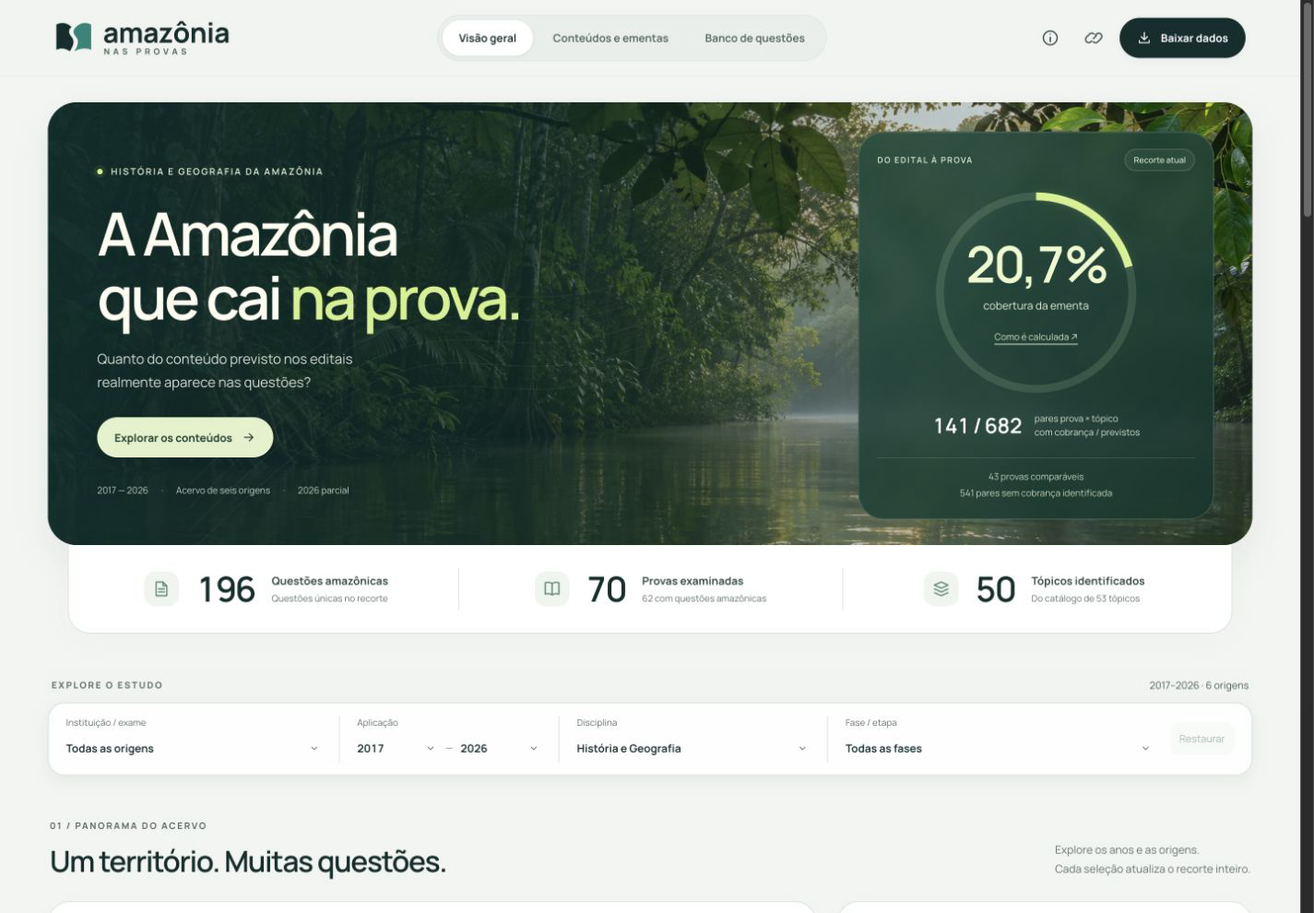
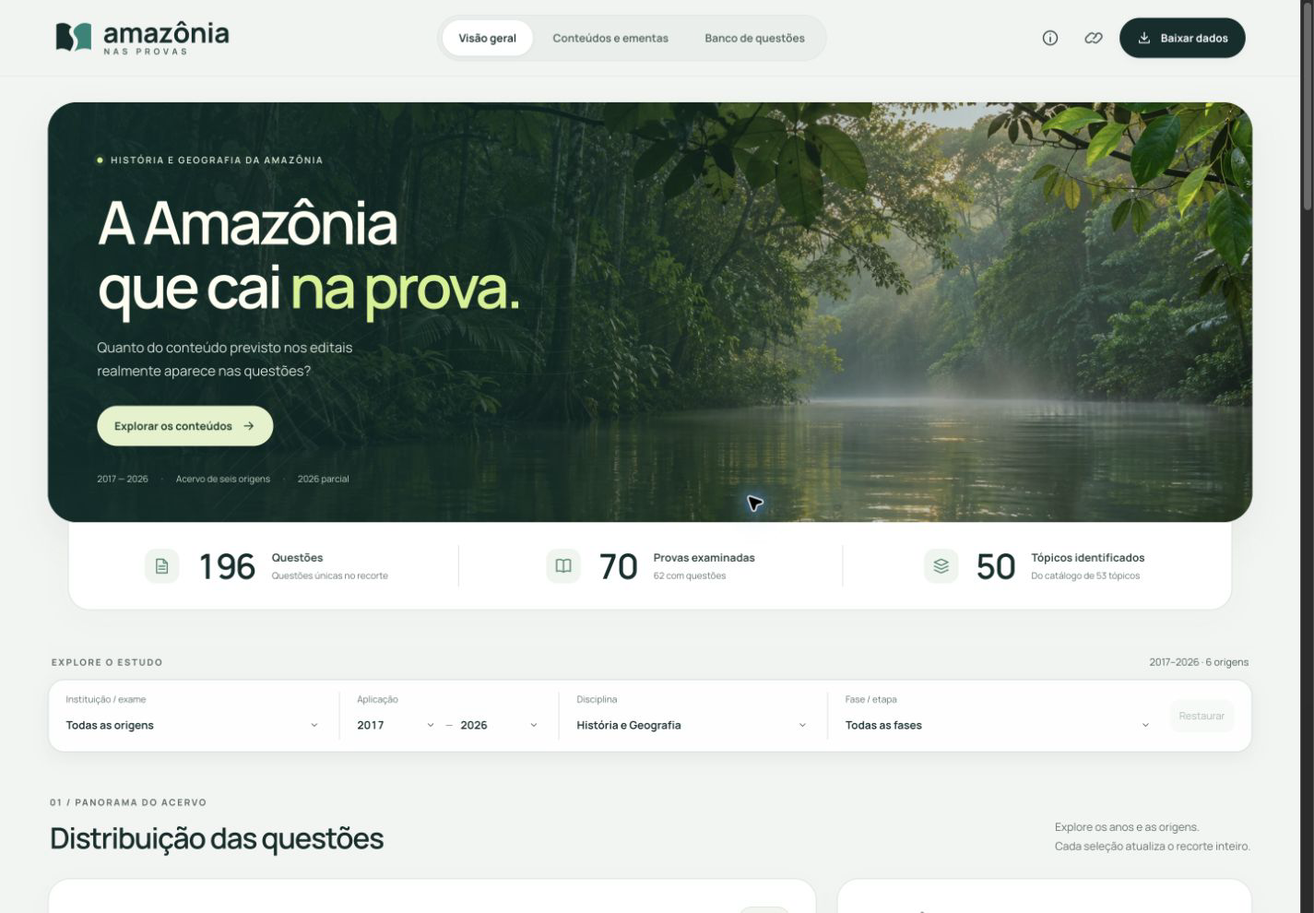
Update Site source

diff --git a/dashboard/index.html b/dashboard/index.html
@@ -55,19 +55,10 @@
       <a class="button hero-cta" href="#conteudos">Explorar os conteúdos<svg class="icon"><use href="#i-arrow"/></svg></a>
       <div class="hero-meta"><span>2017 — 2026</span><span>Acervo de seis origens</span><span>2026 parcial</span></div>
     </div>
-    <div class="hero-finding">
-      <div class="finding-label"><span>DO EDITAL À PROVA</span><span class="glass-tag">Recorte atual</span></div>
-      <div class="coverage-dial">
-        <svg viewBox="0 0 280 280" aria-hidden="true"><circle class="dial-track" cx="140" cy="140" r="122"/><circle id="coverage-ring" class="dial-value" cx="140" cy="140" r="122" pathLength="100" stroke-dasharray="0 100"/></svg>
-        <div class="dial-center"><strong id="metric-coverage">—</strong><span>cobertura da ementa</span><button class="dial-explain" data-open="method">Como é calculada <span aria-hidden="true">↗</span></button></div>
-      </div>
-      <div class="finding-evidence"><strong id="coverage-fraction">— / —</strong><span>pares prova × tópico<br>com cobrança / previstos</span></div>
-      <div class="finding-note"><span id="coverage-context">Carregando programas…</span><span id="coverage-remainder"></span><span id="metric-coverage-note" class="visually-hidden"></span></div>
-    </div>
   </section>
   <section class="metrics" aria-label="Indicadores do recorte">
-    <article class="metric"><span class="metric-symbol"><svg class="icon"><use href="#i-file"/></svg></span><strong id="metric-questions">—</strong><div><span class="metric-label">Questões amazônicas</span><span id="metric-questions-note">Questões únicas no recorte</span></div></article>
-    <article class="metric"><span class="metric-symbol"><svg class="icon"><use href="#i-book"/></svg></span><strong id="metric-exams">—</strong><div><span class="metric-label">Provas examinadas</span><span id="metric-exams-note">Com e sem questões amazônicas</span></div></article>
+    <article class="metric"><span class="metric-symbol"><svg class="icon"><use href="#i-file"/></svg></span><strong id="metric-questions">—</strong><div><span class="metric-label">Questões</span><span id="metric-questions-note">Questões únicas no recorte</span></div></article>
+    <article class="metric"><span class="metric-symbol"><svg class="icon"><use href="#i-book"/></svg></span><strong id="metric-exams">—</strong><div><span class="metric-label">Provas examinadas</span><span id="metric-exams-note">Com e sem questões</span></div></article>
     <article class="metric"><span class="metric-symbol"><svg class="icon"><use href="#i-layers"/></svg></span><strong id="metric-topics">—</strong><div><span class="metric-label">Tópicos identificados</span><span id="metric-topics-note">Do catálogo de 53 tópicos</span></div></article>
   </section>
   <section class="explore-controls" aria-label="Recorte da exploração">
@@ -80,13 +71,13 @@
       <button type="button" class="reset-button" id="reset-filters" title="Restaurar todos os filtros">Restaurar</button>
     </form>
   </section><div id="filter-feedback" class="visually-hidden" role="status" aria-live="polite"></div><p id="loading-status" class="loading-status" role="status">Carregando o acervo e os programas…</p>
-  <div class="section-heading distribution-heading"><div><span class="eyebrow">01 / PANORAMA DO ACERVO</span><h2>Um território. Muitas questões.</h2></div><p>Explore os anos e as origens.<br>Cada seleção atualiza o recorte inteiro.</p></div>
+  <div class="section-heading distribution-heading"><div><span class="eyebrow">01 / PANORAMA DO ACERVO</span><h2>Distribuição das questões</h2></div><p>Explore os anos e as origens.<br>Cada seleção atualiza o recorte inteiro.</p></div>
     <section class="chart-grid" aria-label="Distribuição das questões">
-      <article class="panel annual-panel"><div class="panel-heading"><div><span class="small-label">AO LONGO DOS ANOS</span><h2>Questões ao longo do tempo</h2></div><span class="pill" id="annual-count">10 anos</span></div><div class="chart-legend"><span><i class="legend-history"></i>História</span><span><i class="legend-geography"></i>Geografia</span><span class="legend-helper">Disciplina principal</span></div><div class="annual-chart" id="annual-chart" aria-label="Gráfico de questões por ano"></div><details class="chart-data"><summary>Ver valores por ano</summary><div class="table-scroll"><table class="annual-data-table"><thead><tr><th>Ano</th><th>História</th><th>Geografia</th><th>Questões</th><th>Provas</th></tr></thead><tbody id="annual-table"></tbody></table></div></details><div class="panel-footnote">O número de provas varia por ano. As barras contam questões do acervo; 2026 é parcial. <button class="inline-link" data-open="method">Ver critérios</button></div></article>
+      <article class="panel annual-panel"><div class="panel-heading"><div><h2>Questões ao longo do tempo</h2></div><span class="pill" id="annual-count">10 anos</span></div><div class="chart-legend"><span><i class="legend-history"></i>História</span><span><i class="legend-geography"></i>Geografia</span><span class="legend-helper">Disciplina principal</span></div><div class="annual-chart" id="annual-chart" aria-label="Gráfico de questões por ano"></div><details class="chart-data"><summary>Ver valores por ano</summary><div class="table-scroll"><table class="annual-data-table"><thead><tr><th>Ano</th><th>História</th><th>Geografia</th><th>Questões</th><th>Provas</th></tr></thead><tbody id="annual-table"></tbody></table></div></details><div class="panel-footnote">O número de provas varia por ano. As barras contam questões do acervo; 2026 é parcial. <button class="inline-link" data-open="method">Ver critérios</button></div></article>
       <article class="panel origin-panel"><div class="panel-heading"><div><span class="small-label">COMPOSIÇÃO DO ACERVO</span><h2>Questões por origem</h2></div></div><div id="origin-chart" class="origin-chart"></div><div class="panel-footnote">Toque em uma origem para filtrar o estudo.</div></article>
     </section>
     <section class="period-section" aria-labelledby="period-title">
-      <div class="period-intro"><svg class="icon"><use href="#i-chart"/></svg><div><h3 id="period-title">Um olhar sobre os períodos</h3><p>Contexto do Novo Ensino Médio</p></div><button class="text-button" data-open="method" aria-label="Entender os períodos do Novo Ensino Médio">Entender os cortes <span aria-hidden="true">↗</span></button></div>
+      <div class="period-intro"><svg class="icon"><use href="#i-chart"/></svg><div><h3 id="period-title">Filtrar por período</h3><p>Contexto do Novo Ensino Médio</p></div><button class="text-button" data-open="method" aria-label="Entender os períodos do Novo Ensino Médio">Entender os cortes <span aria-hidden="true">↗</span></button></div>
       <div class="period-shortcuts" role="group" aria-label="Selecionar período de aplicação">
         <button data-period="2017:2021" aria-pressed="false"><span class="period-number">01</span><strong>2017–2021</strong><span>Referência</span></button>
         <button data-period="2022:2023" aria-pressed="false"><span class="period-number">02</span><strong>2022–2023</strong><span>Implantação prevista</span></button>
@@ -95,10 +86,15 @@
       </div>
       <p class="period-note">São recortes do calendário de aplicação. Não identificam o currículo vivido por cada candidato nem demonstram efeito da reforma.</p>
     </section>
-    <section id="conteudos" tabindex="-1" class="section-anchor" aria-labelledby="contents-title"><div class="section-heading"><div><span class="eyebrow">02 / CONTEÚDOS E EMENTAS</span><h2 id="contents-title">Entre o previsto e o cobrado.</h2></div><p>Os tópicos vêm dos programas das provas.<br>Compare a previsão e encontre as questões.</p></div><div class="content-grid">
+    <section id="conteudos" tabindex="-1" class="section-anchor" aria-labelledby="contents-title"><div class="section-heading"><div><span class="eyebrow">02 / CONTEÚDOS E EMENTAS</span><h2 id="contents-title">Entre o previsto e o cobrado.</h2></div></div><div class="content-grid">
       <article class="panel topics-panel"><div class="panel-heading"><div><span class="small-label">CONTEÚDOS IDENTIFICADOS</span><h2>Tópicos mais frequentes</h2></div><button class="text-button small" id="toggle-topics" aria-expanded="false">Ver todos<svg class="icon"><use href="#i-arrow"/></svg></button></div><p class="panel-description">Questões com o tópico principal ou secundário. Uma questão pode aparecer em mais de uma linha.</p><div id="topic-chart" class="topic-chart"></div><div class="panel-footnote">Selecione um tópico para consultar suas questões.</div></article>
       <article class="panel coverage-panel"><div class="panel-heading"><div><span class="small-label">DO EDITAL À PROVA</span><h2>Previsão e cobrança</h2></div><svg class="icon panel-heading-icon"><use href="#i-chart"/></svg></div><p class="panel-description">Tópicos com cobrança identificada entre os previstos regionalmente nos programas comparáveis.</p><div id="coverage-chart" class="coverage-chart"></div><button class="button button-outline full-width" data-open="programs">Conferir por prova<svg class="icon"><use href="#i-arrow"/></svg></button><div class="panel-footnote">“—” indica ausência de base comparável. Zero exige uma ementa observada.</div></article>
-    </div></section>
+    </div>
+      <section class="coverage-summary" aria-labelledby="coverage-summary-title">
+        <div><h3 id="coverage-summary-title">Cobertura da ementa</h3><p class="coverage-summary-result"><strong id="metric-coverage">—</strong> <span id="coverage-summary-text">Carregando programas…</span></p><p id="metric-coverage-note" class="coverage-summary-note"></p></div>
+        <button class="text-button" data-open="method">Como é calculada <span aria-hidden="true">↗</span></button>
+      </section>
+    </section>
     <section class="panel bank-panel section-anchor" id="questoes" tabindex="-1" aria-labelledby="bank-title"><div class="bank-heading"><div><span class="small-label">03 / EXAMINE AS EVIDÊNCIAS</span><h2 id="bank-title" tabindex="-1">Cada questão, sua origem. <span class="count-badge" id="bank-count">196</span></h2><p class="panel-description">Enunciados, tópicos e documentos de origem para aprofundar a leitura.</p></div><div class="bank-tools"><label class="search-field"><svg class="icon"><use href="#i-search"/></svg><span class="visually-hidden">Pesquisar no banco</span><input id="question-search" type="search" placeholder="Buscar assunto ou enunciado" autocomplete="off"></label><label><span class="visually-hidden">Ordenar questões</span><select id="sort-questions" aria-label="Ordenar questões"><option value="newest">Mais recentes</option><option value="oldest">Mais antigas</option><option value="institution">Por origem</option></select></label></div></div><div id="bank-filter" class="bank-filter" hidden></div><div class="table-scroll"><table class="questions-table"><thead><tr><th>Questão / conteúdo</th><th>Origem e etapa</th><th>Aplicação</th><th><span class="visually-hidden">Consultar</span></th></tr></thead><tbody id="questions-body"></tbody></table></div><div class="pagination"><span id="pagination-label" role="status" aria-live="polite"></span><div><button class="button button-outline small" id="previous-page">Anterior</button><span id="page-label"></span><button class="button button-outline small" id="next-page">Próxima</button></div></div></section>
     <section class="research-note"><div><svg class="nature-icon research-sigil" viewBox="0 0 64 64" aria-hidden="true"><use href="assets/amazonia-icons.svg#compass"/></svg><span class="eyebrow">UM ACERVO ABERTO À CONSULTA</span><h2>Todo achado tem um caminho de volta.</h2><p>Da questão ao programa, da classificação à fonte. Consulte os critérios e os limites para interpretar o que os números mostram.</p></div><div class="research-actions"><button class="button button-dark" data-open="method">Metodologia e limites<svg class="icon"><use href="#i-arrow"/></svg></button><button class="button button-outline" data-open="sources">Fontes consultadas<svg class="icon"><use href="#i-external"/></svg></button></div></section>
     <footer class="page-footer"><div><strong>Amazônia nas provas</strong><span>Curadoria assistida por IA · Dados públicos</span></div><span>Recorte até 11 nov 2026</span><a class="inline-link" href="https://github.com/mh131105/amazonia-nos-vestibulares" target="_blank" rel="noopener noreferrer">Pesquisa e código <span aria-hidden="true">↗</span></a></footer>

diff --git a/dashboard/app.js b/dashboard/app.js
@@ -53,18 +53,15 @@ function refresh(announce=true){
   $('metric-questions').textContent=number(view.questions.length);
   $('metric-exams').textContent=number(view.exams.length);
   $('metric-topics').textContent=number(view.topicRanking.filter(t=>t.count>0).length);
-  $('metric-coverage').textContent=percent(view.coverage.percent);
   const coverage=view.coverage;
-  $('coverage-ring')?.setAttribute('stroke-dasharray',coverage.percent===null?'0 100':`${coverage.percent} ${100-coverage.percent}`);
-  if($('coverage-fraction')) $('coverage-fraction').textContent=coverage.percent===null?'—':`${number(coverage.covered)} / ${number(coverage.expected)}`;
-  if($('coverage-context')) $('coverage-context').textContent=coverage.percent===null?'Sem base comparável':`${plural(coverage.examCount,'prova')} ${coverage.examCount===1?'comparável':'comparáveis'}`;
-  if($('coverage-remainder')) $('coverage-remainder').textContent=coverage.percent===null?'A ausência de uma base comparável não equivale a zero.':`${number(coverage.expected-coverage.covered)} pares sem cobrança identificada`;
+  $('metric-coverage').textContent=percent(coverage.percent);
+  $('coverage-summary-text').textContent=coverage.percent===null ? 'Sem base comparável neste recorte.' : 'dos tópicos previstos nas ementas apareceram nas provas.';
+  $('metric-coverage-note').textContent=coverage.percent===null ? 'A ausência de uma base comparável não equivale a zero.' : `${number(coverage.covered)} de ${number(coverage.expected)} pares prova × tópico · ${plural(coverage.examCount,'prova')} ${coverage.examCount===1?'comparável':'comparáveis'}. Cada tópico conta uma vez por prova.`;
   document.querySelectorAll('[data-period]').forEach(button=>button.setAttribute('aria-pressed',String(button.dataset.period===`${filters.from}:${filters.to}`)));
   $('metric-questions-note').textContent='Questões únicas no recorte';
   const withQuestions=new Set(view.questions.map(q=>q.examId)).size;
-  $('metric-exams-note').textContent=`${number(withQuestions)} com questões amazônicas`;
+  $('metric-exams-note').textContent=`${number(withQuestions)} com questões`;
   $('metric-topics-note').textContent=`Do catálogo de ${view.topicRanking.length} tópicos`;
-  $('metric-coverage-note').textContent=view.coverage.percent===null ? 'Sem base comparável no recorte' : `${number(view.coverage.covered)} de ${number(view.coverage.expected)} · ${plural(view.coverage.examCount,'prova')}`;
   $('filter-context').textContent=`${filters.from===filters.to?filters.from:filters.from+'–'+filters.to} · ${filters.institution==='all'?view.institutions.length+' origens':names[filters.institution]}${filters.area!=='all'?' · '+filters.area:''}${filters.stage!=='all'?' · '+filters.stage:''}`;
   $('reset-filters').disabled=Object.keys(defaults).every(k=>filters[k]===defaults[k])&&!selectedTopic&&!search;
   renderAnnual();renderOrigins();renderTopics();renderCoverage();renderBank();updateURL();
@@ -145,7 +142,7 @@ function openQuestion(id){
   openDialog('BANCO DE QUESTÕES',body);
 }
 function openMethod(){
-  openDialog('SOBRE OS DADOS',`<h2 id="dialog-title">Como ler este estudo</h2><p>Reunimos questões de História e Geografia da Amazônia e os programas das provas para comparar o conteúdo previsto com a cobrança identificada.</p><div class="method-facts"><div class="method-fact"><strong>196</strong><span>questões amazônicas</span></div><div class="method-fact"><strong>70</strong><span>provas examinadas</span></div><div class="method-fact"><strong>53</strong><span>tópicos no catálogo</span></div></div><h3>O recorte</h3><p>Aplicações de 1º de janeiro de 2017 a 11 de novembro de 2026. O núcleo reúne UEA Vestibular/Macro e UFAM PSC; o complemento inclui Enem regular impresso, segunda fase FUVEST e duas edições de UERR e UFRR. O levantamento não é um censo de todas as instituições brasileiras.</p><h3>O que significa 20,7%</h3><p>Nas 43 provas com triagem completa e programa regional integral, identificamos cobrança de 141 dos 682 pares prova × tópico previstos. Um tópico previsto em cinco provas conta cinco vezes. A razão soma os tópicos cobrados e os previstos; ela não é uma média dos percentuais por prova.</p><p>Os conteúdos vêm das ementas. Padronizamos os nomes e desdobramentos em disciplina, conteúdo e tópico, preservando a redação original. Para contar uma cobrança, exigimos uma questão ligada ao item pertinente do programa e ao tópico correspondente.</p><h3>Questões e tópicos</h3><p>Cada questão tem um tópico principal e pode ter tópicos secundários. Por isso, as frequências por tópico não somam o total de questões. História e Geografia selecionam qualquer tópico da área: há 25 questões com ambas as disciplinas. O gráfico anual usa a disciplina principal, contando cada questão uma vez.</p><p>A busca e o tópico selecionado afetam o banco de questões. Os filtros de origem, aplicação, disciplina e etapa atualizam todos os indicadores. As oito provas sem questões amazônicas continuam no cadastro.</p><h3>Zeros e lacunas</h3><p>“—” significa que não há base comparável para a cobertura. Enem e FUVEST possuem vínculos programáticos amplos e ficam fora dessa proporção regional explícita. Zero significa que observamos a previsão regional, mas não encontramos cobrança vinculada aos seus tópicos. UEA 2026 Humanas, por exemplo, tem três questões regionais amparadas por cláusulas gerais e cobertura de 0/14 no recorte explícito.</p><p>O programa UEA 2017 e dois editais PSC 2018 permanecem pendentes. Quatro provas PSC de primeira etapa recentes não apresentam previsão regional explícita registrada. As questões anuladas permanecem porque apareceram nos cadernos.</p><h3>Datas e fontes</h3><p>Ano de aplicação, edição e ingresso são distintos. UEA 2020 e Enem 2020 ocorreram em 2021; duas edições UEA ocorreram em 2022. Os detalhes conservam a edição e as páginas dos PDFs. As fontes distinguem publicações institucionais de cópias públicas identificadas.</p><h3>Períodos e Novo Ensino Médio</h3><p>Os atalhos usam o calendário de aplicação: 2017–2021 (referência), 2022–2023 (implantação prevista), 2024 (cronograma completo previsto) e 2025–2026 (revisão e coexistência). O cronograma original previa a primeira série em 2022 e todas as séries em 2024; a revisão posterior começa em 2025. São marcos normativos, não uma classificação do currículo vivido por cada candidato.</p><p>As comparações são descritivas. Não demonstram efeito causal do Novo Ensino Médio, nem pressupõem que a matriz de cada vestibular mudou nessas datas. 2026 é parcial, e o número e a composição das provas variam entre os períodos. <a class="inline-link" href="https://github.com/mh131105/amazonia-nos-vestibulares/blob/main/resultados/relatorio.md#5-o-que-mudou-no-tempo-em-torno-do-novo-ensino-médio" target="_blank" rel="noopener noreferrer">Consultar a análise temporal, as referências normativas e as sensibilidades ↗</a>.</p><h3>Autoria e curadoria</h3><p>Projeto de Matheus Garcia, com pesquisa, classificação e implementação assistidas por Codex. Uma associação geral de UEA 2026 Q05 ao Segundo Reinado está em revisão e aparece sinalizada nos detalhes; ela não modifica o indicador regional explícito.</p><div class="dialog-actions"><a class="button button-outline" href="dataset.json" download="amazonia-nas-provas.json">${icon('download')}Baixar base completa · JSON</a></div>`);
+  openDialog('SOBRE OS DADOS',`<h2 id="dialog-title">Como ler este estudo</h2><p>Reunimos questões de História e Geografia da Amazônia e os programas das provas para comparar o conteúdo previsto com a cobrança identificada.</p><div class="method-facts"><div class="method-fact"><strong>196</strong><span>questões</span></div><div class="method-fact"><strong>70</strong><span>provas examinadas</span></div><div class="method-fact"><strong>53</strong><span>tópicos no catálogo</span></div></div><h3>O recorte</h3><p>Aplicações de 1º de janeiro de 2017 a 11 de novembro de 2026. O núcleo reúne UEA Vestibular/Macro e UFAM PSC; o complemento inclui Enem regular impresso, segunda fase FUVEST e duas edições de UERR e UFRR. O levantamento não é um censo de todas as instituições brasileiras.</p><h3>O que significa 20,7%</h3><p>Nas 43 provas com triagem completa e programa regional integral, identificamos cobrança de 141 dos 682 pares prova × tópico previstos. Um tópico previsto em cinco provas conta cinco vezes. A razão soma os tópicos cobrados e os previstos; ela não é uma média dos percentuais por prova.</p><p>Os conteúdos vêm das ementas. Padronizamos os nomes e desdobramentos em disciplina, conteúdo e tópico, preservando a redação original. Para contar uma cobrança, exigimos uma questão ligada ao item pertinente do programa e ao tópico correspondente.</p><h3>Questões e tópicos</h3><p>Cada questão tem um tópico principal e pode ter tópicos secundários. Por isso, as frequências por tópico não somam o total de questões. História e Geografia selecionam qualquer tópico da área: há 25 questões com ambas as disciplinas. O gráfico anual usa a disciplina principal, contando cada questão uma vez.</p><p>A busca e o tópico selecionado afetam o banco de questões. Os filtros de origem, aplicação, disciplina e etapa atualizam todos os indicadores. As oito provas sem questões continuam no cadastro.</p><h3>Zeros e lacunas</h3><p>“—” significa que não há base comparável para a cobertura. Enem e FUVEST possuem vínculos programáticos amplos e ficam fora dessa proporção regional explícita. Zero significa que observamos a previsão regional, mas não encontramos cobrança vinculada aos seus tópicos. UEA 2026 Humanas, por exemplo, tem três questões regionais amparadas por cláusulas gerais e cobertura de 0/14 no recorte explícito.</p><p>O programa UEA 2017 e dois editais PSC 2018 permanecem pendentes. Quatro provas PSC de primeira etapa recentes não apresentam previsão regional explícita registrada. As questões anuladas permanecem porque apareceram nos cadernos.</p><h3>Datas e fontes</h3><p>Ano de aplicação, edição e ingresso são distintos. UEA 2020 e Enem 2020 ocorreram em 2021; duas edições UEA ocorreram em 2022. Os detalhes conservam a edição e as páginas dos PDFs. As fontes distinguem publicações institucionais de cópias públicas identificadas.</p><h3>Períodos e Novo Ensino Médio</h3><p>Os atalhos usam o calendário de aplicação: 2017–2021 (referência), 2022–2023 (implantação prevista), 2024 (cronograma completo previsto) e 2025–2026 (revisão e coexistência). O cronograma original previa a primeira série em 2022 e todas as séries em 2024; a revisão posterior começa em 2025. São marcos normativos, não uma classificação do currículo vivido por cada candidato.</p><p>As comparações são descritivas. Não demonstram efeito causal do Novo Ensino Médio, nem pressupõem que a matriz de cada vestibular mudou nessas datas. 2026 é parcial, e o número e a composição das provas variam entre os períodos. <a class="inline-link" href="https://github.com/mh131105/amazonia-nos-vestibulares/blob/main/resultados/relatorio.md#5-o-que-mudou-no-tempo-em-torno-do-novo-ensino-médio" target="_blank" rel="noopener noreferrer">Consultar a análise temporal, as referências normativas e as sensibilidades ↗</a>.</p><h3>Autoria e curadoria</h3><p>Projeto de Matheus Garcia, com pesquisa, classificação e implementação assistidas por Codex. Uma associação geral de UEA 2026 Q05 ao Segundo Reinado está em revisão e aparece sinalizada nos detalhes; ela não modifica o indicador regional explícito.</p><div class="dialog-actions"><a class="button button-outline" href="dataset.json" download="amazonia-nas-provas.json">${icon('download')}Baixar base completa · JSON</a></div>`);
 }
 function openPrograms(){
   const coverageByExam=new Map(view.coverage.byExam.map(c=>[c.examId,c]));

diff --git a/dashboard/styles.css b/dashboard/styles.css
@@ -28,6 +28,9 @@
 
 .content-grid{display:grid;grid-template-columns:minmax(0,1.25fr) minmax(0,1fr);gap:22px}.topics-panel{border-top:3px solid #cf9879}.coverage-panel{border-top:3px solid #79ac8e}.topic-chart{display:flex;flex-direction:column;gap:0}.topic-row{display:grid;grid-template-columns:27px minmax(0,1fr) 32px;gap:12px;align-items:center;width:100%;padding:12px 0;background:none;border:0;border-bottom:1px solid #edf1eb;text-align:left;border-radius:4px}.topic-index{font-size:11px;color:#6d7c70;font-variant-numeric:tabular-nums;align-self:start;padding-top:3px}.topic-main{display:flex;flex-direction:column;gap:5px;min-width:0}.topic-name{font-size:12px;font-weight:650;line-height:1.5;color:#2b4b3b}.topic-area{font-size:9px;color:var(--muted);font-weight:550}.topic-track{height:4px;background:#edf2e9;border-radius:3px;overflow:hidden;margin-top:3px}.topic-fill{height:100%;display:block;border-radius:3px;background:var(--geography)}.topic-row.history .topic-fill{background:var(--history)}.topic-value{font-size:14px;font-weight:650;color:#274f3b;text-align:right;font-variant-numeric:tabular-nums}.topic-row:hover,.topic-row[aria-pressed=true]{background:#f0f7ed}.topic-row[aria-pressed=true]{outline:5px solid #f0f7ed}.coverage-chart{display:grid;gap:22px;margin:26px 0}.coverage-row-top{display:flex;justify-content:space-between;align-items:baseline;gap:12px;font-size:13px;color:#314e3d}.coverage-row-top strong{font-size:18px;font-weight:650;color:#1d4f3c;font-variant-numeric:tabular-nums;letter-spacing:-.5px}.coverage-track{height:9px;border-radius:8px;background:#ebf2e9;margin:7px 0;overflow:hidden}.coverage-fill{display:block;height:100%;border-radius:8px;background:#188975;transition:width .5s var(--ease)}.coverage-caption{font-size:10px;color:var(--muted)}.coverage-row.unavailable{opacity:1}.coverage-row.unavailable .coverage-track{background:repeating-linear-gradient(-45deg,#f6f8f2,#f6f8f2 4px,#e5ebe1 4px,#e5ebe1 6px)}.coverage-row.unavailable .coverage-row-top strong{color:var(--muted)}
 
+.coverage-summary{display:flex;align-items:center;justify-content:space-between;gap:32px;margin-top:22px;padding:24px 28px;border:1px solid #d5e2d6;border-radius:20px;background:#e9f0e4}.coverage-summary h3{margin:0 0 8px;font-size:12px;font-weight:700;color:#35543d}.coverage-summary-result{display:flex;align-items:baseline;gap:14px;margin:0;color:var(--ink);font-size:18px;line-height:1.5}.coverage-summary-result strong{font-size:36px;font-weight:650;letter-spacing:-1px;line-height:1.2;white-space:nowrap;font-variant-numeric:tabular-nums}.coverage-summary-note{font-size:11px;line-height:1.75;color:#536750;margin:10px 0 0}.coverage-summary .text-button{flex-shrink:0}
+@media(max-width:760px){.coverage-summary{display:block;padding:22px 20px;margin-top:16px}.coverage-summary-result{display:block;font-size:16px}.coverage-summary-result strong{display:block;margin-bottom:6px;font-size:34px}.coverage-summary .text-button{margin-top:10px;font-size:11px}}
+
 /* A readable evidence table; mobile rows retain their labels. */
 .bank-panel{margin-top:52px;padding:0;overflow:hidden;border-radius:26px}.bank-heading{padding:30px 30px 25px;display:flex;justify-content:space-between;align-items:center;gap:28px}.bank-heading h2{font-size:28px;letter-spacing:-1px}.bank-heading .panel-description{margin:9px 0 0;font-size:11px}.count-badge{font-size:12px;vertical-align:middle;letter-spacing:0;padding:4px 9px;background:#e9f1e3;border:1px solid #d5e4ca;border-radius:20px;display:inline-flex;margin-left:5px;color:#426339}.bank-tools{display:flex;align-items:center;gap:10px;flex-shrink:0}.search-field{display:flex;align-items:center;gap:10px;padding:11px 14px;border:1px solid #cfddcd;border-radius:13px;background:#f9fbf6;color:#5b7561}.search-field .icon{width:17px;height:17px}.search-field input{width:185px;min-width:0;border:0;background:transparent;outline:none;font-size:11px;color:var(--ink)}.search-field:focus-within{outline:3px solid #048d81;outline-offset:3px}.search-field input:focus-visible{outline:none}.search-field input::placeholder{color:#6a7b6b}.bank-tools select{padding:11px 27px 11px 12px;border:1px solid var(--border);border-radius:13px;font-size:11px;background-position:right 10px center;min-height:43px}.bank-filter{padding:0 30px 20px}.topic-chip{display:inline-flex;align-items:center;gap:9px;padding:9px 12px;background:#e3f0dc;border:1px solid #b2d09d;border-radius:18px;color:#365d2f;font-size:11px;max-width:100%;text-align:left}.topic-chip .icon{width:15px;height:15px}.table-scroll{overflow-x:auto;position:relative}.questions-table{border-collapse:collapse;width:100%;text-align:left}.questions-table th{background:#f1f5ed;color:#5c705d;font-size:10px;font-weight:650;padding:13px 28px;border-top:1px solid var(--border);border-bottom:1px solid var(--border)}.questions-table th:first-child{width:52%}.questions-table td{padding:18px 28px;border-bottom:1px solid #e8eee3;font-size:12px;color:#47604b;vertical-align:middle}.questions-table tr:last-child td{border-bottom:0}.questions-table tr:hover td{background:#f9fbf6}.question-title{display:flex;align-items:flex-start;gap:11px;color:#244332;font-size:13px;font-weight:650}.question-number{font-size:10px;font-weight:650;padding:2px 6px;background:#eef3e9;color:#607359;border-radius:5px;white-space:nowrap;min-width:34px;text-align:center;margin-top:1px}.question-subtitle{display:block;font-size:10px;color:var(--muted);margin-top:5px;line-height:1.5}.question-institution{font-weight:700;font-size:12px;color:#33533b}.question-stage{display:block;font-size:10px;color:var(--muted);margin-top:4px}.question-open{width:38px;height:38px;display:inline-flex;justify-content:center;align-items:center;border-radius:50%;background:#edf4e8;border:1px solid #d8e6ce;color:#3b6743;transition:background .2s,transform .2s}.question-open .icon{width:17px;height:17px}.question-open:hover{background:#dcebd3;transform:translateX(2px)}.pagination{display:flex;align-items:center;justify-content:space-between;gap:20px;padding:20px 28px;border-top:1px solid var(--border);font-size:11px;color:var(--muted)}.pagination>div{display:flex;gap:16px;align-items:center}.pagination button:disabled{opacity:.48}.empty-state{padding:28px 15px;color:var(--muted);text-align:center;font-size:12px;line-height:1.8}.empty-state strong{display:block;color:var(--ink);font-size:15px;margin-bottom:6px}.research-note{display:flex;justify-content:space-between;gap:40px;align-items:center;margin:34px 0 0;border-radius:25px;background:#e6eee0;padding:32px 36px;border:1px solid #d8e4d1}.research-sigil{float:left;width:42px;height:42px;margin:3px 16px 10px 0}.research-note h2{font-size:23px;color:#294c34;font-weight:600;letter-spacing:-.7px;margin:8px 0}.research-note p{font-size:12px;line-height:1.8;max-width:580px;margin:0;color:#536a50}.research-actions{display:flex;flex-direction:column;gap:10px;flex-shrink:0}.page-footer{display:flex;justify-content:space-between;align-items:center;gap:20px;margin:30px 0 0;padding:18px 0 30px;font-size:10px;color:#657760}.page-footer>div{display:grid;gap:3px}.page-footer strong{font-size:12px;font-weight:750;color:#345239}.page-footer .inline-link{font-size:11px}
 

diff --git a/dashboard/README.md b/dashboard/README.md
@@ -37,7 +37,7 @@ Abra [http://localhost:8765](http://localhost:8765). O primeiro comando lê os C
 
 ## Consultar
 
-A abertura apresenta a pergunta do estudo e a cobertura da ementa no recorte atual. O percentual acompanha o numerador, o denominador em pares prova × tópico e a quantidade de provas comparáveis. A navegação superior leva à visão geral, aos conteúdos e ao banco de questões.
+A abertura apresenta a pergunta do estudo. A cobertura da ementa fica abaixo dos gráficos de tópicos e programas, com o percentual do recorte atual, o numerador, o denominador em pares prova × tópico e a quantidade de provas comparáveis. A navegação superior leva à visão geral, aos conteúdos e ao banco de questões.
 
 Os filtros de instituição, aplicação, disciplina e fase atualizam os indicadores. As barras anuais e as origens também filtram o estudo. Os atalhos de 2017–2021, 2022–2023, 2024 e 2025–2026 selecionam faixas do calendário de aplicação; não classificam o currículo vivido pelos candidatos nem demonstram efeitos do Novo Ensino Médio. Os critérios estão na metodologia e na [análise exploratória](../resultados/relatorio.md).
 
